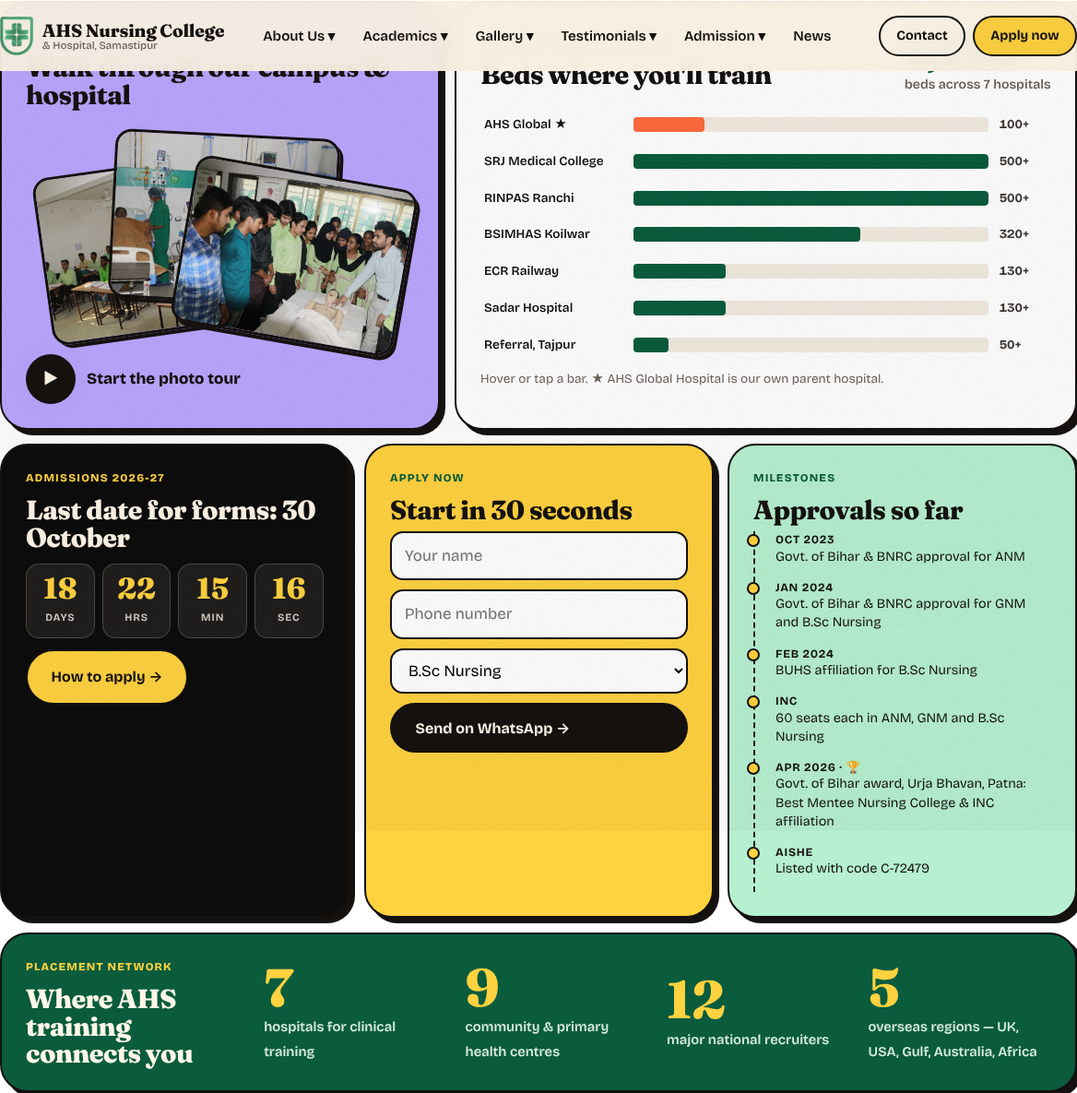
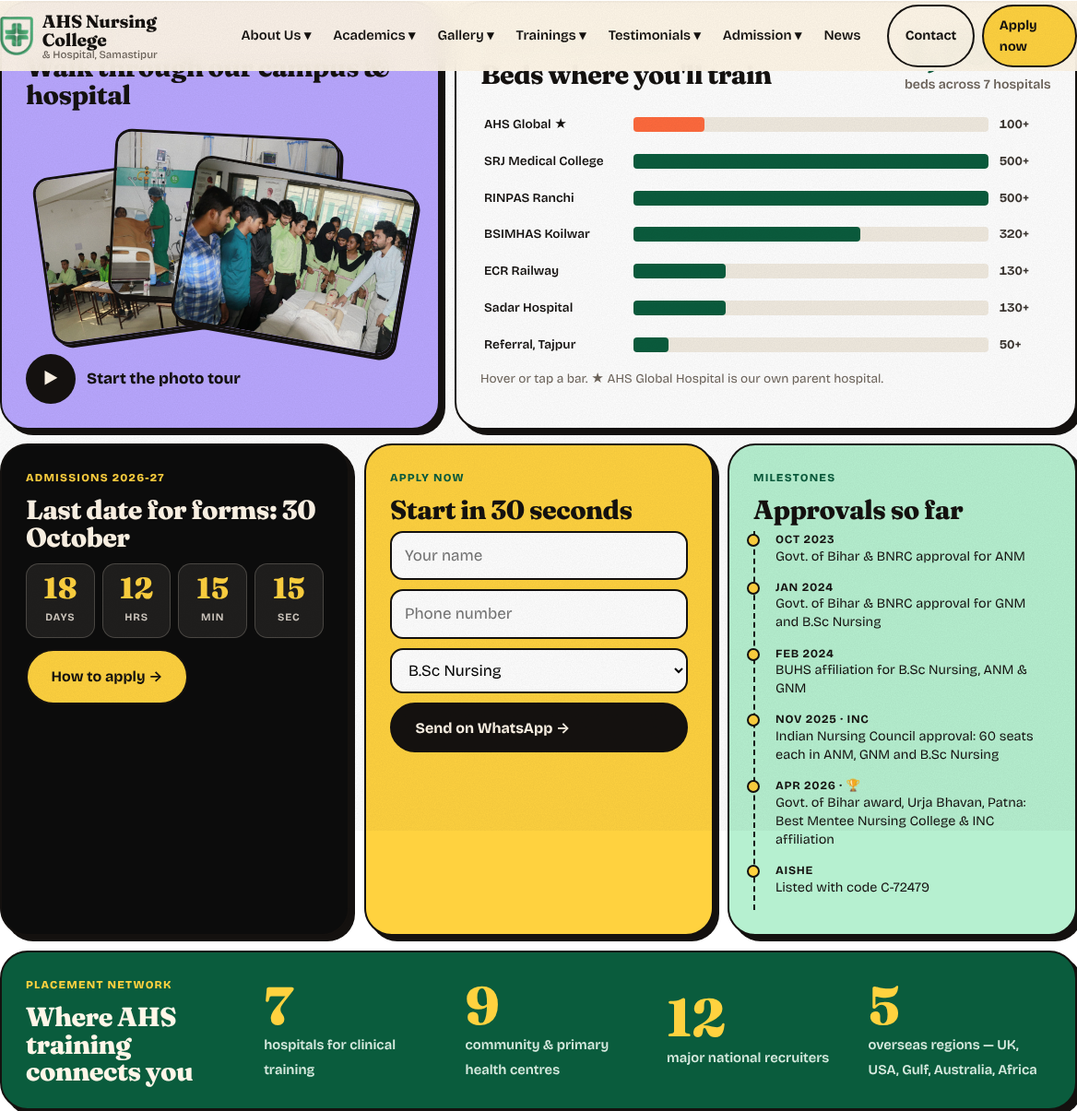
Add a Trainings menu with separate training pages
Trainings: Hospital Training, Training Hospitals (new: parent hospital,
bed chart, government hospitals, community centres), Clinical Case
Presentations, Mass Casualty Training, Fire & Safety Training, and
Events & Functions. Gallery keeps buildings and labs. Menu labels stay
on one line.

Claude-Session: https://claude.ai/code/session_01Y6YqJfR5BKtTpf58RQksHi

diff --git a/gallery-events.html b/gallery-events.html
@@ -3,8 +3,8 @@
 <head>
   <meta charset="utf-8">
   <meta name="viewport" content="width=device-width, initial-scale=1">
-  <title>Events & Programmes</title>
-  <meta name="description" content="Function-wise photo albums and training videos from AHS Nursing College & Hospital.">
+  <title>Events & Functions</title>
+  <meta name="description" content="Events & Functions at AHS Nursing College & Hospital, Samastipur.">
   <link rel="preconnect" href="https://fonts.googleapis.com">
   <link rel="preconnect" href="https://fonts.gstatic.com" crossorigin>
   <link href="https://fonts.googleapis.com/css2?family=Fraunces:ital,opsz,wght@0,9..144,500;0,9..144,800;1,9..144,500&family=Bricolage+Grotesque:opsz,wght@12..96,400;12..96,500;12..96,600;12..96,700;12..96,800&display=swap" rel="stylesheet">
@@ -16,14 +16,15 @@
   <main>
 <section class="page-hero">
       <div class="container">
-        <div class="crumbs"><a href="index.html">Home</a> / Gallery / Events &amp; Programmes</div>
-        <span class="eyebrow">Gallery</span>
+        <div class="crumbs"><a href="index.html">Home</a> / Trainings / Events & Functions</div>
+        <span class="eyebrow">Trainings</span>
         <h1>Moments we <em>celebrate.</em></h1>
-        <p class="lead">Awards, functions, competitions and training programmes — album by album.</p>
-        <div class="subnav"><a href="gallery-buildings.html">Academic Buildings</a><a href="gallery-labs-libraries.html">Labs & Libraries</a><a href="gallery-hospital.html">Hospital Training</a><a href="gallery-events.html" class="active">Events & Programmes</a></div>
+        <p class="lead">Awards, visits, competitions and celebrations — album by album.</p>
+        <div class="subnav"><a href="gallery-hospital.html">Hospital Training</a><a href="training-hospitals.html">Training Hospitals</a><a href="training-clinical.html">Clinical Case Presentations</a><a href="training-mass-casualty.html">Mass Casualty Training</a><a href="training-fire.html">Fire &amp; Safety</a><a href="gallery-events.html" class="active">Events &amp; Functions</a></div>
       </div>
     </section>
-    <section class="section album-nav"><div class="container"><span class="label"><b>8</b>Albums</span><div class="album__chips"><a href="#award-2026">Government of Bihar Award <small>2026</small></a><a href="#mass-casualty">Mass casualty training</a><a href="#fracture-case">Clinical Case Presentation on Fracture <small>2026</small></a><a href="#rangoli-2025">Inter-Team Rangoli Competition <small>2025</small></a><a href="#chancellor-2024">Visit of the Hon’ble Chancellor <small>2024</small></a><a href="#nutrition-2024">National Nutrition Week <small>2024</small></a><a href="#programmes">Fire &amp; emergency training</a></div></div></section>
+
+    <section class="section album-nav"><div class="container"><span class="label"><b>5</b>Albums</span><div class="album__chips"><a href="#award-2026">Government of Bihar Award <small>2026</small></a><a href="#rangoli-2025">Inter-Team Rangoli Competition <small>2025</small></a><a href="#chancellor-2024">Visit of the Hon’ble Chancellor <small>2024</small></a><a href="#nutrition-2024">National Nutrition Week <small>2024</small></a><a href="#more">More moments</a></div></div></section>
 
     <section class="section album" id="award-2026">
       <div class="container">
@@ -33,36 +34,6 @@
           <p class="lead">AHS Nursing College was honoured as Best Mentee Nursing College of Bihar, and for taking INC affiliation.</p>
         </div>
         <div class="album__grid n1 reveal"><button type="button" class="album__tile" data-full="assets/img/award-bihar-govt.jpg" aria-label="Open photo: Receiving the Government of Bihar award on stage"><img src="assets/img/award-bihar-govt.jpg" alt="Receiving the Government of Bihar award on stage" loading="lazy"></button></div>
-      </div>
-    </section>
-
-    <section class="section section--dark mci" id="mass-casualty">
-      <div class="container">
-        <span class="label"><b>🚑</b>Mass casualty training</span>
-        <div class="mci__head">
-          <h2 class="reveal">When ten patients arrive at once, <em>our students know what to do.</em></h2>
-          <div class="reveal"><p class="lead">A one-day emergency trauma camp on the AHS Nursing College campus. Students practised triage, casualty
-            handling, safe transfers and CPR in a live mass-casualty simulation.</p>
-            <p class="mci__by"><b>Led by Dr Kamran ul Haque</b><br>Emergency Medicine Specialist, Max Hospital, Delhi</p></div>
-        </div>
-        <figure class="mci__reel reveal"><video poster="assets/video/mass-casualty-reel.jpg" muted loop playsinline preload="none" controls aria-label="Mass casualty training highlights"><source src="assets/video/mass-casualty-reel.mp4" type="video/mp4"><source src="assets/video/mass-casualty-reel.webm" type="video/webm"></video>
-          <figcaption>▶ 30-second highlights</figcaption></figure>
-        <div class="vgrid mci__bites"><figure class="vcard reveal"><video poster="assets/video/mass-casualty-briefing.jpg" muted loop playsinline preload="none" controls aria-label="The briefing"><source src="assets/video/mass-casualty-briefing.mp4" type="video/mp4"><source src="assets/video/mass-casualty-briefing.webm" type="video/webm"></video>
-          <figcaption><span class="badge badge--warm">Clip</span><h3>The briefing</h3><p>Students are briefed on how to respond when many patients arrive at once.</p></figcaption></figure><figure class="vcard reveal"><video poster="assets/video/mass-casualty-response.jpg" muted loop playsinline preload="none" controls aria-label="The alarm"><source src="assets/video/mass-casualty-response.mp4" type="video/mp4"><source src="assets/video/mass-casualty-response.webm" type="video/webm"></video>
-          <figcaption><span class="badge badge--warm">Clip</span><h3>The alarm</h3><p>Casualties arrive — students rush to their stations and prepare beds.</p></figcaption></figure><figure class="vcard reveal"><video poster="assets/video/mass-casualty-cpr.jpg" muted loop playsinline preload="none" controls aria-label="Life support"><source src="assets/video/mass-casualty-cpr.mp4" type="video/mp4"><source src="assets/video/mass-casualty-cpr.webm" type="video/webm"></video>
-          <figcaption><span class="badge badge--warm">Clip</span><h3>Life support</h3><p>Teams start CPR and stabilise the most critical patients first.</p></figcaption></figure></div>
-        <div class="album__grid n6 mci__stills reveal"><button type="button" class="album__tile" data-full="assets/img/ev-mci-1.jpg" aria-label="Open photo: Briefing before the mass casualty drill"><img src="assets/img/ev-mci-1.jpg" alt="Briefing before the mass casualty drill" loading="lazy"></button><button type="button" class="album__tile" data-full="assets/img/ev-mci-2.jpg" aria-label="Open photo: Students running to their stations"><img src="assets/img/ev-mci-2.jpg" alt="Students running to their stations" loading="lazy"></button><button type="button" class="album__tile" data-full="assets/img/ev-mci-3.jpg" aria-label="Open photo: Preparing beds for incoming casualties"><img src="assets/img/ev-mci-3.jpg" alt="Preparing beds for incoming casualties" loading="lazy"></button><button type="button" class="album__tile" data-full="assets/img/ev-mci-4.jpg" aria-label="Open photo: Students moving a casualty with a draw sheet"><img src="assets/img/ev-mci-4.jpg" alt="Students moving a casualty with a draw sheet" loading="lazy"></button><button type="button" class="album__tile" data-full="assets/img/ev-mci-5.jpg" aria-label="Open photo: Teams receiving casualties"><img src="assets/img/ev-mci-5.jpg" alt="Teams receiving casualties" loading="lazy"></button><button type="button" class="album__tile" data-full="assets/img/ev-mci-6.jpg" aria-label="Open photo: Students performing CPR"><img src="assets/img/ev-mci-6.jpg" alt="Students performing CPR" loading="lazy"></button></div>
-      </div>
-    </section>
-
-    <section class="section album" id="fracture-case">
-      <div class="container">
-        <div class="album__head reveal">
-          <div><span class="badge badge--warm">Clinical learning</span><h2>Clinical Case Presentation on Fracture</h2>
-            <p class="album__meta">📅 26 September 2026 · 📍 AHS Global Hospital (our parent hospital)</p></div>
-          <p class="lead">Dr. Rashid and the healthcare team took students through a real fracture case — types, causes, signs and symptoms, patient assessment, diagnosis, treatment and nursing management — connecting classroom knowledge with real clinical care.</p>
-        </div>
-        <div class="album__grid n4 reveal"><button type="button" class="album__tile" data-full="assets/img/ev-fracture-1.jpg" aria-label="Open photo: Dr. Rashid explaining a fracture case at the bedside"><img src="assets/img/ev-fracture-1.jpg" alt="Dr. Rashid explaining a fracture case at the bedside" loading="lazy"></button><button type="button" class="album__tile" data-full="assets/img/ev-fracture-2.jpg" aria-label="Open photo: Students observing a patient assessment"><img src="assets/img/ev-fracture-2.jpg" alt="Students observing a patient assessment" loading="lazy"></button><button type="button" class="album__tile" data-full="assets/img/ev-fracture-3.jpg" aria-label="Open photo: Discussion of nursing management with the healthcare team"><img src="assets/img/ev-fracture-3.jpg" alt="Discussion of nursing management with the healthcare team" loading="lazy"></button><button type="button" class="album__tile" data-full="assets/img/ev-fracture-4.jpg" aria-label="Open photo: Students with Dr. Rashid and the healthcare team"><img src="assets/img/ev-fracture-4.jpg" alt="Students with Dr. Rashid and the healthcare team" loading="lazy"></button></div>
       </div>
     </section>
     <section class="section album" id="rangoli-2025">
@@ -93,24 +64,6 @@
           <p class="lead">Students prepared and displayed healthy diet charts and nutritious dishes, and the celebration was covered in the local press.</p>
         </div>
         <div class="album__grid n3 reveal"><button type="button" class="album__tile" data-full="assets/img/ev-nutrition-1.jpg" aria-label="Open photo: Nutrition exhibition of healthy dishes"><img src="assets/img/ev-nutrition-1.jpg" alt="Nutrition exhibition of healthy dishes" loading="lazy"></button><button type="button" class="album__tile" data-full="assets/img/ev-nutrition-3.jpg" aria-label="Open photo: Students presenting their nutrition stall"><img src="assets/img/ev-nutrition-3.jpg" alt="Students presenting their nutrition stall" loading="lazy"></button><button type="button" class="album__tile" data-full="assets/img/ev-nutrition-2.jpg" aria-label="Open photo: Newspaper coverage of Nutrition Week at AHS"><img src="assets/img/ev-nutrition-2.jpg" alt="Newspaper coverage of Nutrition Week at AHS" loading="lazy"></button></div>
-      </div>
-    </section>
-
-    <section class="section section--dark" id="programmes">
-      <div class="container">
-        <span class="label"><b>▶</b>Programmes · Fire &amp; emergency training</span>
-        <h2 class="reveal" style="max-width:20ch">Ready for emergencies, <em>not just exams.</em></h2>
-        <p class="lead reveal">With the Bihar Fire Service, our students train in fire safety, first aid and rescue — skills every nurse needs on day one.</p>
-        <div class="vgrid"><figure class="vcard  reveal">
-          <video poster="assets/video/fire-safety-drill.jpg" muted loop playsinline preload="none" controls aria-label="Fire safety drill"><source src="assets/video/fire-safety-drill.mp4" type="video/mp4"><source src="assets/video/fire-safety-drill.webm" type="video/webm"></video>
-          <figcaption><span class="badge badge--warm">Video</span><h3>Fire safety drill</h3><p>Students put out a live fire with extinguishers, guided by the Bihar Fire Service.</p></figcaption></figure><figure class="vcard  reveal">
-          <video poster="assets/video/extinguisher-demo.jpg" muted loop playsinline preload="none" controls aria-label="How to use an extinguisher"><source src="assets/video/extinguisher-demo.mp4" type="video/mp4"><source src="assets/video/extinguisher-demo.webm" type="video/webm"></video>
-          <figcaption><span class="badge badge--warm">Video</span><h3>How to use an extinguisher</h3><p>A fire officer demonstrates the right technique, step by step, on campus.</p></figcaption></figure><figure class="vcard  reveal">
-          <video poster="assets/video/choking-first-aid.jpg" muted loop playsinline preload="none" controls aria-label="Choking first-aid training"><source src="assets/video/choking-first-aid.mp4" type="video/mp4"><source src="assets/video/choking-first-aid.webm" type="video/webm"></video>
-          <figcaption><span class="badge badge--warm">Video</span><h3>Choking first-aid training</h3><p>Fire service trainers teach the abdominal-thrust (Heimlich) technique.</p></figcaption></figure><figure class="vcard tall reveal">
-          <video poster="assets/video/rescue-carry-drill.jpg" muted loop playsinline preload="none" controls aria-label="Rescue &amp; casualty carry"><source src="assets/video/rescue-carry-drill.mp4" type="video/mp4"><source src="assets/video/rescue-carry-drill.webm" type="video/webm"></video>
-          <figcaption><span class="badge badge--warm">Video</span><h3>Rescue &amp; casualty carry</h3><p>Students practise lifting and carrying a casualty to safety.</p></figcaption></figure><figure class="vcard reveal"><img src="assets/img/fire-awareness-drive.jpg" alt="Students holding Bihar Fire Service awareness leaflets with a fire officer" loading="lazy">
-          <figcaption><span class="badge">Photo</span><h3>Fire safety awareness drive</h3><p>Students spread Bihar Fire Service safety leaflets with fire officers at Jail Chowk.</p></figcaption></figure></div>
       </div>
     </section>
 

diff --git a/training-hospitals.html b/training-hospitals.html
@@ -1,0 +1,60 @@
+<!doctype html>
+<html lang="en">
+<head>
+  <meta charset="utf-8">
+  <meta name="viewport" content="width=device-width, initial-scale=1">
+  <title>Training Hospitals</title>
+  <meta name="description" content="Training Hospitals at AHS Nursing College & Hospital, Samastipur.">
+  <link rel="preconnect" href="https://fonts.googleapis.com">
+  <link rel="preconnect" href="https://fonts.gstatic.com" crossorigin>
+  <link href="https://fonts.googleapis.com/css2?family=Fraunces:ital,opsz,wght@0,9..144,500;0,9..144,800;1,9..144,500&family=Bricolage+Grotesque:opsz,wght@12..96,400;12..96,500;12..96,600;12..96,700;12..96,800&display=swap" rel="stylesheet">
+  <link rel="stylesheet" href="assets/css/style.css">
+  <link rel="stylesheet" href="assets/css/interactive.css">
+</head>
+<body>
+  <div id="site-header"></div>
+  <main>
+<section class="page-hero">
+      <div class="container">
+        <div class="crumbs"><a href="index.html">Home</a> / Trainings / Training Hospitals</div>
+        <span class="eyebrow">Trainings</span>
+        <h1>Where our students <em>train.</em></h1>
+        <p class="lead">Our own 100-bed AHS Global Hospital, plus government hospitals and health centres across Bihar and Jharkhand.</p>
+        <div class="subnav"><a href="gallery-hospital.html">Hospital Training</a><a href="training-hospitals.html" class="active">Training Hospitals</a><a href="training-clinical.html">Clinical Case Presentations</a><a href="training-mass-casualty.html">Mass Casualty Training</a><a href="training-fire.html">Fire &amp; Safety</a><a href="gallery-events.html">Events &amp; Functions</a></div>
+      </div>
+    </section>
+
+    <section class="section">
+      <div class="container split reveal">
+        <div class="split__media"><div class="ph"><img src="assets/img/hospital-icu.jpg" alt="ICU at AHS Global Hospital" loading="lazy" style="object-position:center"></div></div>
+        <div>
+          <span class="badge badge--warm">Parent hospital</span>
+          <h2>AHS Global Hospital</h2>
+          <p class="lead">A 100+ bed hospital in Samastipur run by the same trust. Students train here on real wards from their first year.</p>
+          <ul class="checklist"><li>24-hour emergency and OPD — Medical, Surgical, Obstetrics &amp; Gynaecology, Ophthalmology, Paediatrics, Psychology</li><li>Maternity care, labour room, newborn care and vaccination</li><li>Day-care admissions with pathology support</li><li>Door-to-door primary care, health awareness programmes and check-up camps</li></ul>
+          <a class="link-arrow" href="gallery-hospital.html">See hospital training photos</a>
+        </div>
+      </div>
+    </section>
+    <section class="section section--soft">
+      <div class="container">
+        <div class="dash__tile dash__chart reveal" style="grid-column:auto">
+          <div class="chart__top"><div><span class="dash__k">Clinical training network</span><h3>Beds where you'll train</h3></div><div class="beds__readout"></div></div>
+          <div class="beds" data-beds="[{&quot;name&quot;: &quot;AHS Global Hospital (our own)&quot;, &quot;short&quot;: &quot;AHS Global \u2605&quot;, &quot;beds&quot;: 100, &quot;own&quot;: true}, {&quot;name&quot;: &quot;Sri Ram Jaanki Medical College & Hospital&quot;, &quot;short&quot;: &quot;SRJ Medical College&quot;, &quot;beds&quot;: 500}, {&quot;name&quot;: &quot;RINPAS, Ranchi&quot;, &quot;short&quot;: &quot;RINPAS Ranchi&quot;, &quot;beds&quot;: 500}, {&quot;name&quot;: &quot;Bihar State Institute of Mental Health&quot;, &quot;short&quot;: &quot;BSIMHAS Koilwar&quot;, &quot;beds&quot;: 320}, {&quot;name&quot;: &quot;ECR Divisional Railway Hospital&quot;, &quot;short&quot;: &quot;ECR Railway&quot;, &quot;beds&quot;: 130}, {&quot;name&quot;: &quot;Sadar Hospital, Samastipur&quot;, &quot;short&quot;: &quot;Sadar Hospital&quot;, &quot;beds&quot;: 130}, {&quot;name&quot;: &quot;Jan Nayak Karpuri Thakur Referral Hospital&quot;, &quot;short&quot;: &quot;Referral, Tajpur&quot;, &quot;beds&quot;: 50}]"></div>
+          <p class="elig__note" style="margin:10px 0 0">Hover or tap a bar. ★ AHS Global Hospital is our own parent hospital.</p>
+        </div>
+        <h2 class="mt-3 reveal">Government affiliated hospitals</h2>
+        <p class="lead reveal">Hands-on training across specialties, as per Indian Nursing Council and Bihar Nurses Registration Council guidelines.</p>
+        <div class="table-wrap reveal"><table><tr><th>Hospital</th><th>Beds</th><th>Established by</th></tr><tr><td><b>Sri Ram Jaanki Medical College &amp; Hospital</b><br><small style='color:var(--muted)'>Narghoghi, Sarairanjan, Bihar 848127</small></td><td>500+</td><td>Government of Bihar</td></tr><tr><td><b>ECR Divisional Railway Hospital</b><br><small style='color:var(--muted)'>Railway Colony, Samastipur, Bihar</small></td><td>130+</td><td>Indian Railways, Govt. of India (est. 1930)</td></tr><tr><td><b>Bihar State Institute of Mental Health and Allied Sciences</b><br><small style='color:var(--muted)'>Koilwar, Bhojpur, Bihar 802160</small></td><td>320+</td><td>Government of Bihar</td></tr><tr><td><b>Sadar Hospital, Samastipur</b><br><small style='color:var(--muted)'>Opp. Circuit House, Samastipur, Bihar</small></td><td>130+</td><td>Government of Bihar</td></tr><tr><td><b>Ranchi Institute of Neuro-Psychiatry and Allied Sciences (RINPAS)</b><br><small style='color:var(--muted)'>Kanke, Ranchi, Jharkhand</small></td><td>500+</td><td>Government of Jharkhand</td></tr><tr><td><b>Jan Nayak Karpuri Thakur Referral Hospital</b><br><small style='color:var(--muted)'>Tajpur, Samastipur, Bihar</small></td><td>50+</td><td>Government of Bihar</td></tr></table></div>
+        <h2 class="mt-3 reveal">Community health centres</h2>
+        <p class="lead reveal">Field postings for health camps, immunisation drives and maternal-child health programmes.</p>
+        <div class="table-wrap reveal"><table><tr><th>Centre</th><th>Location</th></tr><tr><td><b>Community Health Centre (CHC)</b></td><td>Opp. Circuit House, Samastipur</td></tr><tr><td><b>Community Health Centre (CHC)</b></td><td>Tajpur, Samastipur</td></tr><tr><td><b>Primary Health Centre (PHC)</b></td><td>Pusa, Samastipur</td></tr><tr><td><b>Primary Health Centre (PHC)</b></td><td>Kalyanpur, Samastipur</td></tr><tr><td><b>Additional Primary Health Centres (APHC)</b></td><td>Bikrampur Banday, Shambhopatti, Karpurigram, Dudhpura, Nirpur</td></tr></table></div>
+      </div>
+    </section>
+    <div class="lightbox" hidden><button type="button" class="lightbox__close" aria-label="Close">✕</button><button type="button" class="lightbox__prev" aria-label="Previous photo">←</button><img alt=""><button type="button" class="lightbox__next" aria-label="Next photo">→</button><p class="lightbox__cap"></p></div>
+  </main>
+  <div id="site-footer"></div>
+  <script src="assets/js/site.js"></script>
+  <script src="assets/js/interactive.js"></script>
+</body>
+</html>

diff --git a/training-mass-casualty.html b/training-mass-casualty.html
@@ -1,0 +1,51 @@
+<!doctype html>
+<html lang="en">
+<head>
+  <meta charset="utf-8">
+  <meta name="viewport" content="width=device-width, initial-scale=1">
+  <title>Mass Casualty Training</title>
+  <meta name="description" content="Mass Casualty Training at AHS Nursing College & Hospital, Samastipur.">
+  <link rel="preconnect" href="https://fonts.googleapis.com">
+  <link rel="preconnect" href="https://fonts.gstatic.com" crossorigin>
+  <link href="https://fonts.googleapis.com/css2?family=Fraunces:ital,opsz,wght@0,9..144,500;0,9..144,800;1,9..144,500&family=Bricolage+Grotesque:opsz,wght@12..96,400;12..96,500;12..96,600;12..96,700;12..96,800&display=swap" rel="stylesheet">
+  <link rel="stylesheet" href="assets/css/style.css">
+  <link rel="stylesheet" href="assets/css/interactive.css">
+</head>
+<body>
+  <div id="site-header"></div>
+  <main>
+<section class="page-hero">
+      <div class="container">
+        <div class="crumbs"><a href="index.html">Home</a> / Trainings / Mass Casualty Training</div>
+        <span class="eyebrow">Trainings</span>
+        <h1>Ready when many patients arrive at <em>once.</em></h1>
+        <p class="lead">A one-day emergency trauma camp with triage, casualty handling, safe transfers and CPR.</p>
+        <div class="subnav"><a href="gallery-hospital.html">Hospital Training</a><a href="training-hospitals.html">Training Hospitals</a><a href="training-clinical.html">Clinical Case Presentations</a><a href="training-mass-casualty.html" class="active">Mass Casualty Training</a><a href="training-fire.html">Fire &amp; Safety</a><a href="gallery-events.html">Events &amp; Functions</a></div>
+      </div>
+    </section>
+
+    <section class="section section--dark mci" id="mass-casualty">
+      <div class="container">
+        <span class="label"><b>🚑</b>Mass casualty training</span>
+        <div class="mci__head">
+          <h2 class="reveal">When ten patients arrive at once, <em>our students know what to do.</em></h2>
+          <div class="reveal"><p class="lead">A one-day emergency trauma camp on the AHS Nursing College campus. Students practised triage, casualty
+            handling, safe transfers and CPR in a live mass-casualty simulation.</p>
+            <p class="mci__by"><b>Led by Dr Kamran ul Haque</b><br>Emergency Medicine Specialist, Max Hospital, Delhi</p></div>
+        </div>
+        <figure class="mci__reel reveal"><video poster="assets/video/mass-casualty-reel.jpg" muted loop playsinline preload="none" controls aria-label="Mass casualty training highlights"><source src="assets/video/mass-casualty-reel.mp4" type="video/mp4"><source src="assets/video/mass-casualty-reel.webm" type="video/webm"></video>
+          <figcaption>▶ 30-second highlights</figcaption></figure>
+        <div class="vgrid mci__bites"><figure class="vcard reveal"><video poster="assets/video/mass-casualty-briefing.jpg" muted loop playsinline preload="none" controls aria-label="The briefing"><source src="assets/video/mass-casualty-briefing.mp4" type="video/mp4"><source src="assets/video/mass-casualty-briefing.webm" type="video/webm"></video>
+          <figcaption><span class="badge badge--warm">Clip</span><h3>The briefing</h3><p>Students are briefed on how to respond when many patients arrive at once.</p></figcaption></figure><figure class="vcard reveal"><video poster="assets/video/mass-casualty-response.jpg" muted loop playsinline preload="none" controls aria-label="The alarm"><source src="assets/video/mass-casualty-response.mp4" type="video/mp4"><source src="assets/video/mass-casualty-response.webm" type="video/webm"></video>
+          <figcaption><span class="badge badge--warm">Clip</span><h3>The alarm</h3><p>Casualties arrive — students rush to their stations and prepare beds.</p></figcaption></figure><figure class="vcard reveal"><video poster="assets/video/mass-casualty-cpr.jpg" muted loop playsinline preload="none" controls aria-label="Life support"><source src="assets/video/mass-casualty-cpr.mp4" type="video/mp4"><source src="assets/video/mass-casualty-cpr.webm" type="video/webm"></video>
+          <figcaption><span class="badge badge--warm">Clip</span><h3>Life support</h3><p>Teams start CPR and stabilise the most critical patients first.</p></figcaption></figure></div>
+        <div class="album__grid n6 mci__stills reveal"><button type="button" class="album__tile" data-full="assets/img/ev-mci-1.jpg" aria-label="Open photo: Briefing before the mass casualty drill"><img src="assets/img/ev-mci-1.jpg" alt="Briefing before the mass casualty drill" loading="lazy"></button><button type="button" class="album__tile" data-full="assets/img/ev-mci-2.jpg" aria-label="Open photo: Students running to their stations"><img src="assets/img/ev-mci-2.jpg" alt="Students running to their stations" loading="lazy"></button><button type="button" class="album__tile" data-full="assets/img/ev-mci-3.jpg" aria-label="Open photo: Preparing beds for incoming casualties"><img src="assets/img/ev-mci-3.jpg" alt="Preparing beds for incoming casualties" loading="lazy"></button><button type="button" class="album__tile" data-full="assets/img/ev-mci-4.jpg" aria-label="Open photo: Students moving a casualty with a draw sheet"><img src="assets/img/ev-mci-4.jpg" alt="Students moving a casualty with a draw sheet" loading="lazy"></button><button type="button" class="album__tile" data-full="assets/img/ev-mci-5.jpg" aria-label="Open photo: Teams receiving casualties"><img src="assets/img/ev-mci-5.jpg" alt="Teams receiving casualties" loading="lazy"></button><button type="button" class="album__tile" data-full="assets/img/ev-mci-6.jpg" aria-label="Open photo: Students performing CPR"><img src="assets/img/ev-mci-6.jpg" alt="Students performing CPR" loading="lazy"></button></div>
+      </div>
+    </section>
+    <div class="lightbox" hidden><button type="button" class="lightbox__close" aria-label="Close">✕</button><button type="button" class="lightbox__prev" aria-label="Previous photo">←</button><img alt=""><button type="button" class="lightbox__next" aria-label="Next photo">→</button><p class="lightbox__cap"></p></div>
+  </main>
+  <div id="site-footer"></div>
+  <script src="assets/js/site.js"></script>
+  <script src="assets/js/interactive.js"></script>
+</body>
+</html>

diff --git a/training-fire.html b/training-fire.html
@@ -1,0 +1,50 @@
+<!doctype html>
+<html lang="en">
+<head>
+  <meta charset="utf-8">
+  <meta name="viewport" content="width=device-width, initial-scale=1">
+  <title>Fire & Safety Training</title>
+  <meta name="description" content="Fire & Safety Training at AHS Nursing College & Hospital, Samastipur.">
+  <link rel="preconnect" href="https://fonts.googleapis.com">
+  <link rel="preconnect" href="https://fonts.gstatic.com" crossorigin>
+  <link href="https://fonts.googleapis.com/css2?family=Fraunces:ital,opsz,wght@0,9..144,500;0,9..144,800;1,9..144,500&family=Bricolage+Grotesque:opsz,wght@12..96,400;12..96,500;12..96,600;12..96,700;12..96,800&display=swap" rel="stylesheet">
+  <link rel="stylesheet" href="assets/css/style.css">
+  <link rel="stylesheet" href="assets/css/interactive.css">
+</head>
+<body>
+  <div id="site-header"></div>
+  <main>
+<section class="page-hero">
+      <div class="container">
+        <div class="crumbs"><a href="index.html">Home</a> / Trainings / Fire & Safety Training</div>
+        <span class="eyebrow">Trainings</span>
+        <h1>Ready for emergencies, not just <em>exams.</em></h1>
+        <p class="lead">Fire safety, first aid and rescue training with the Bihar Fire Service.</p>
+        <div class="subnav"><a href="gallery-hospital.html">Hospital Training</a><a href="training-hospitals.html">Training Hospitals</a><a href="training-clinical.html">Clinical Case Presentations</a><a href="training-mass-casualty.html">Mass Casualty Training</a><a href="training-fire.html" class="active">Fire &amp; Safety</a><a href="gallery-events.html">Events &amp; Functions</a></div>
+      </div>
+    </section>
+
+    <section class="section section--dark" id="programmes">
+      <div class="container">
+        <span class="label"><b>▶</b>Programmes · Fire &amp; emergency training</span>
+        <h2 class="reveal" style="max-width:20ch">Ready for emergencies, <em>not just exams.</em></h2>
+        <p class="lead reveal">With the Bihar Fire Service, our students train in fire safety, first aid and rescue — skills every nurse needs on day one.</p>
+        <div class="vgrid"><figure class="vcard  reveal">
+          <video poster="assets/video/fire-safety-drill.jpg" muted loop playsinline preload="none" controls aria-label="Fire safety drill"><source src="assets/video/fire-safety-drill.mp4" type="video/mp4"><source src="assets/video/fire-safety-drill.webm" type="video/webm"></video>
+          <figcaption><span class="badge badge--warm">Video</span><h3>Fire safety drill</h3><p>Students put out a live fire with extinguishers, guided by the Bihar Fire Service.</p></figcaption></figure><figure class="vcard  reveal">
+          <video poster="assets/video/extinguisher-demo.jpg" muted loop playsinline preload="none" controls aria-label="How to use an extinguisher"><source src="assets/video/extinguisher-demo.mp4" type="video/mp4"><source src="assets/video/extinguisher-demo.webm" type="video/webm"></video>
+          <figcaption><span class="badge badge--warm">Video</span><h3>How to use an extinguisher</h3><p>A fire officer demonstrates the right technique, step by step, on campus.</p></figcaption></figure><figure class="vcard  reveal">
+          <video poster="assets/video/choking-first-aid.jpg" muted loop playsinline preload="none" controls aria-label="Choking first-aid training"><source src="assets/video/choking-first-aid.mp4" type="video/mp4"><source src="assets/video/choking-first-aid.webm" type="video/webm"></video>
+          <figcaption><span class="badge badge--warm">Video</span><h3>Choking first-aid training</h3><p>Fire service trainers teach the abdominal-thrust (Heimlich) technique.</p></figcaption></figure><figure class="vcard tall reveal">
+          <video poster="assets/video/rescue-carry-drill.jpg" muted loop playsinline preload="none" controls aria-label="Rescue &amp; casualty carry"><source src="assets/video/rescue-carry-drill.mp4" type="video/mp4"><source src="assets/video/rescue-carry-drill.webm" type="video/webm"></video>
+          <figcaption><span class="badge badge--warm">Video</span><h3>Rescue &amp; casualty carry</h3><p>Students practise lifting and carrying a casualty to safety.</p></figcaption></figure><figure class="vcard reveal"><img src="assets/img/fire-awareness-drive.jpg" alt="Students holding Bihar Fire Service awareness leaflets with a fire officer" loading="lazy">
+          <figcaption><span class="badge">Photo</span><h3>Fire safety awareness drive</h3><p>Students spread Bihar Fire Service safety leaflets with fire officers at Jail Chowk.</p></figcaption></figure></div>
+      </div>
+    </section>
+    <div class="lightbox" hidden><button type="button" class="lightbox__close" aria-label="Close">✕</button><button type="button" class="lightbox__prev" aria-label="Previous photo">←</button><img alt=""><button type="button" class="lightbox__next" aria-label="Next photo">→</button><p class="lightbox__cap"></p></div>
+  </main>
+  <div id="site-footer"></div>
+  <script src="assets/js/site.js"></script>
+  <script src="assets/js/interactive.js"></script>
+</body>
+</html>

diff --git a/training-clinical.html b/training-clinical.html
@@ -1,0 +1,43 @@
+<!doctype html>
+<html lang="en">
+<head>
+  <meta charset="utf-8">
+  <meta name="viewport" content="width=device-width, initial-scale=1">
+  <title>Clinical Case Presentations</title>
+  <meta name="description" content="Clinical Case Presentations at AHS Nursing College & Hospital, Samastipur.">
+  <link rel="preconnect" href="https://fonts.googleapis.com">
+  <link rel="preconnect" href="https://fonts.gstatic.com" crossorigin>
+  <link href="https://fonts.googleapis.com/css2?family=Fraunces:ital,opsz,wght@0,9..144,500;0,9..144,800;1,9..144,500&family=Bricolage+Grotesque:opsz,wght@12..96,400;12..96,500;12..96,600;12..96,700;12..96,800&display=swap" rel="stylesheet">
+  <link rel="stylesheet" href="assets/css/style.css">
+  <link rel="stylesheet" href="assets/css/interactive.css">
+</head>
+<body>
+  <div id="site-header"></div>
+  <main>
+<section class="page-hero">
+      <div class="container">
+        <div class="crumbs"><a href="index.html">Home</a> / Trainings / Clinical Case Presentations</div>
+        <span class="eyebrow">Trainings</span>
+        <h1>Learning from real <em>patients.</em></h1>
+        <p class="lead">Bedside case presentations at AHS Global Hospital, our own parent hospital, led by our doctors and healthcare team.</p>
+        <div class="subnav"><a href="gallery-hospital.html">Hospital Training</a><a href="training-hospitals.html">Training Hospitals</a><a href="training-clinical.html" class="active">Clinical Case Presentations</a><a href="training-mass-casualty.html">Mass Casualty Training</a><a href="training-fire.html">Fire &amp; Safety</a><a href="gallery-events.html">Events &amp; Functions</a></div>
+      </div>
+    </section>
+
+    <section class="section album" id="fracture-case">
+      <div class="container">
+        <div class="album__head reveal">
+          <div><span class="badge badge--warm">Clinical learning</span><h2>Clinical Case Presentation on Fracture</h2>
+            <p class="album__meta">📅 26 September 2026 · 📍 AHS Global Hospital (our parent hospital)</p></div>
+          <p class="lead">Dr. Rashid and the healthcare team took students through a real fracture case — types, causes, signs and symptoms, patient assessment, diagnosis, treatment and nursing management — connecting classroom knowledge with real clinical care.</p>
+        </div>
+        <div class="album__grid n4 reveal"><button type="button" class="album__tile" data-full="assets/img/ev-fracture-1.jpg" aria-label="Open photo: Dr. Rashid explaining a fracture case at the bedside"><img src="assets/img/ev-fracture-1.jpg" alt="Dr. Rashid explaining a fracture case at the bedside" loading="lazy"></button><button type="button" class="album__tile" data-full="assets/img/ev-fracture-2.jpg" aria-label="Open photo: Students observing a patient assessment"><img src="assets/img/ev-fracture-2.jpg" alt="Students observing a patient assessment" loading="lazy"></button><button type="button" class="album__tile" data-full="assets/img/ev-fracture-3.jpg" aria-label="Open photo: Discussion of nursing management with the healthcare team"><img src="assets/img/ev-fracture-3.jpg" alt="Discussion of nursing management with the healthcare team" loading="lazy"></button><button type="button" class="album__tile" data-full="assets/img/ev-fracture-4.jpg" aria-label="Open photo: Students with Dr. Rashid and the healthcare team"><img src="assets/img/ev-fracture-4.jpg" alt="Students with Dr. Rashid and the healthcare team" loading="lazy"></button></div>
+      </div>
+    </section>
+    <div class="lightbox" hidden><button type="button" class="lightbox__close" aria-label="Close">✕</button><button type="button" class="lightbox__prev" aria-label="Previous photo">←</button><img alt=""><button type="button" class="lightbox__next" aria-label="Next photo">→</button><p class="lightbox__cap"></p></div>
+  </main>
+  <div id="site-footer"></div>
+  <script src="assets/js/site.js"></script>
+  <script src="assets/js/interactive.js"></script>
+</body>
+</html>

diff --git a/assets/js/site.js b/assets/js/site.js
@@ -45,8 +45,14 @@ const NAV = [
   { label: "Gallery", items: [
     { href: "gallery-buildings.html", title: "Academic Buildings", desc: "Photographs of our campus" },
     { href: "gallery-labs-libraries.html", title: "Labs & Libraries", desc: "Where skills are built" },
-    { href: "gallery-hospital.html", title: "Hospital Training", desc: "Live training at AHS Global Hospital" },
-    { href: "gallery-events.html", title: "Events & Programmes", desc: "Function-wise albums and training videos" },
+  ]},
+  { label: "Trainings", items: [
+    { href: "gallery-hospital.html", title: "Hospital Training", desc: "Live training at our 100-bed AHS Global Hospital" },
+    { href: "training-hospitals.html", title: "Training Hospitals", desc: "Our hospital and government affiliated hospitals" },
+    { href: "training-clinical.html", title: "Clinical Case Presentations", desc: "Bedside learning with our doctors" },
+    { href: "training-mass-casualty.html", title: "Mass Casualty Training", desc: "Emergency trauma camp" },
+    { href: "training-fire.html", title: "Fire & Safety Training", desc: "With the Bihar Fire Service" },
+    { href: "gallery-events.html", title: "Events & Functions", desc: "Awards, visits and celebrations" },
   ]},
   { label: "Testimonials", items: [
     { href: "testimonials-students.html", title: "Student Testimonials" },
@@ -155,7 +161,7 @@ function renderFooter() {
           ${col("Useful links", [
             ["Apply Online", SITE.applyUrl], ["Eligibility Check", "eligibility.html"], ["Fee Structure", "fee-structure.html"], ["Scholarship", "admission-bscc.html#scholarships"],
             ["Download Brochure", "assets/brochure.pdf"], ["Testimonials", "testimonials-students.html"],
-            ["Our Campus", "gallery-buildings.html"], ["Career", "placement.html"]])}
+            ["Our Campus", "gallery-buildings.html"], ["Trainings", "gallery-hospital.html"], ["Career", "placement.html"]])}
           ${col("Academics", [
             ["ANM", "course-anm.html"], ["GNM", "course-gnm.html"], ["B.Sc Nursing", "course-bsc-nursing.html"],
             ["Faculty", "faculty.html"], ["Exam Calendar", "exam-calendar.html"], ["Academic Calendar", "academic-calendar.html"]])}

diff --git a/index.html b/index.html
@@ -108,7 +108,7 @@
             <p class="lead reveal">AHS Global Hospital is our parent hospital, run by the same trust and right here in Samastipur. You don't wait for a
               posting elsewhere — you learn on real wards, with real patients, under our own doctors and nursing staff.</p>
             <div class="hosp__live reveal"><span class="live-dot"></span>LIVE · wards, OPD &amp; emergency open 24×7 <div class="monitor monitor--hosp" aria-hidden="true"><canvas class="ecg-live" data-color="#ff6a3d"></canvas><span class="bpm">♥ <b>78</b> BPM</span></div></div>
-            <a class="hosp__case reveal" href="gallery-events.html#fracture-case"><img src="assets/img/ev-fracture-1.jpg" alt="" loading="lazy"><span><b>Bedside case presentations</b>Like our fracture case with Dr. Rashid and the healthcare team →</span></a>
+            <a class="hosp__case reveal" href="training-clinical.html"><img src="assets/img/ev-fracture-1.jpg" alt="" loading="lazy"><span><b>Bedside case presentations</b>Like our fracture case with Dr. Rashid and the healthcare team →</span></a>
             <div class="hosp__depts reveal"><span>Medicine</span><span>Surgery</span><span>Obstetrics &amp; Gynaecology</span><span>Ophthalmology</span><span>Paediatrics</span><span>Psychology</span><span>Pathology</span><span>Labour room</span><span>Newborn care</span><span>Vaccination</span></div>
           </div>
           <div class="hosp__photos reveal">

diff --git a/gallery-hospital.html b/gallery-hospital.html
@@ -16,11 +16,11 @@
   <main>
 <section class="page-hero">
       <div class="container">
-        <div class="crumbs"><a href="index.html">Home</a> / Gallery / Hospital Training</div>
-        <span class="eyebrow">Gallery</span>
+        <div class="crumbs"><a href="index.html">Home</a> / Trainings / Hospital Training</div>
+        <span class="eyebrow">Trainings</span>
         <h1>Learning where care <em>happens.</em></h1>
         <p class="lead">Live clinical training at AHS Global Hospital, our own 100-bed parent hospital.</p>
-        <div class="subnav"><a href="gallery-buildings.html">Academic Buildings</a><a href="gallery-labs-libraries.html">Labs & Libraries</a><a href="gallery-hospital.html" class="active">Hospital Training</a><a href="gallery-events.html">Events & Programmes</a></div>
+        <div class="subnav"><a href="gallery-hospital.html" class="active">Hospital Training</a><a href="training-hospitals.html">Training Hospitals</a><a href="training-clinical.html">Clinical Case Presentations</a><a href="training-mass-casualty.html">Mass Casualty Training</a><a href="training-fire.html">Fire &amp; Safety</a><a href="gallery-events.html">Events &amp; Functions</a></div>
       </div>
     </section>
     <section class="section">

diff --git a/gallery-labs-libraries.html b/gallery-labs-libraries.html
@@ -20,7 +20,7 @@
         <span class="eyebrow">Gallery</span>
         <h1>Where skills are <em>built.</em></h1>
         <p class="lead">Ten specialised labs, a library with national and international journals, and modern medical software.</p>
-        <div class="subnav"><a href="gallery-buildings.html">Academic Buildings</a><a href="gallery-labs-libraries.html" class="active">Labs & Libraries</a><a href="gallery-hospital.html">Hospital Training</a><a href="gallery-events.html">Events & Programmes</a></div>
+        <div class="subnav"><a href="gallery-buildings.html">Academic Buildings</a><a href="gallery-labs-libraries.html" class="active">Labs & Libraries</a></div>
       </div>
     </section>
     <section class="section">

diff --git a/gallery-buildings.html b/gallery-buildings.html
@@ -20,7 +20,7 @@
         <span class="eyebrow">Gallery</span>
         <h1>Take a look <em>around.</em></h1>
         <p class="lead">Our academic building and parent hospital in Samastipur.</p>
-        <div class="subnav"><a href="gallery-buildings.html" class="active">Academic Buildings</a><a href="gallery-labs-libraries.html">Labs & Libraries</a><a href="gallery-hospital.html">Hospital Training</a><a href="gallery-events.html">Events & Programmes</a></div>
+        <div class="subnav"><a href="gallery-buildings.html" class="active">Academic Buildings</a><a href="gallery-labs-libraries.html">Labs & Libraries</a></div>
       </div>
     </section>
     <section class="section">

diff --git a/assets/css/style.css b/assets/css/style.css
@@ -527,3 +527,6 @@ tr:last-child td { border-bottom: 0; }
 .gallery { grid-auto-flow: dense; }
 /* Invisible bridge over the gap so the hover menu stays open while the mouse moves into it */
 .mega::before { content: ""; position: absolute; left: 0; right: 0; top: -16px; height: 16px; }
+.nav__btn { white-space: nowrap; padding: 9px 11px; font-size: .92rem; }
+.header .container { gap: 18px; }
+@media (min-width: 1101px) and (max-width: 1280px) { .header__cta .btn--ghost { display: none; } .nav__btn { padding: 8px 8px; font-size: .88rem; } }
